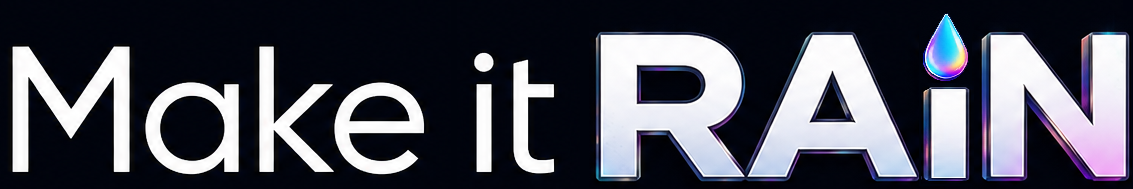
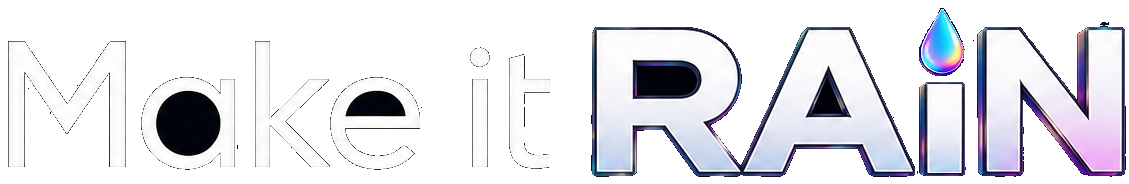
Place the Make it RAIN wordmark under the two slogan lines.
Knock out the lockup's black plate so it sits on the page background.

diff --git a/monetize/components/HomeHero.tsx b/monetize/components/HomeHero.tsx
@@ -220,18 +220,9 @@ export function HomeHero() {
       <h1 className="sr-only">
         You built something real. Now it&apos;s time to get paid. Make it RAIN.
       </h1>
-      {/* eslint-disable-next-line @next/next/no-img-element */}
-      <img
-        src="/brand/make-it-rain-wordmark-line.png"
-        alt=""
-        width={1133}
-        height={189}
-        decoding="async"
-        className="fade-up mx-auto mt-3 h-11 w-auto max-w-[min(100%,22rem)] object-contain object-center sm:mt-4 sm:h-14 sm:max-w-[28rem] md:h-16"
-      />
       <p
         aria-hidden
-        className="fade-up mt-5 max-w-xl text-lg font-semibold leading-snug tracking-tight text-white sm:mt-6 sm:text-xl md:text-2xl"
+        className="fade-up mt-3 max-w-xl text-lg font-semibold leading-snug tracking-tight text-white sm:mt-4 sm:text-xl md:text-2xl"
       >
         <CopySwap
           block
@@ -239,6 +230,15 @@ export function HomeHero() {
           desktop={<LineStack lines={copy.headlineDesktop} />}
         />
       </p>
+      {/* eslint-disable-next-line @next/next/no-img-element */}
+      <img
+        src="/brand/make-it-rain-wordmark-line.png"
+        alt=""
+        width={1129}
+        height={184}
+        decoding="async"
+        className="fade-up mx-auto mt-3 h-11 w-auto max-w-[min(100%,22rem)] bg-transparent object-contain object-center sm:mt-4 sm:h-14 sm:max-w-[28rem] md:h-16"
+      />
       <p className="fade-up mx-auto mt-3 max-w-2xl text-sm leading-relaxed text-slate-300 sm:mt-4 sm:text-base">
         <CopySwap
           block
